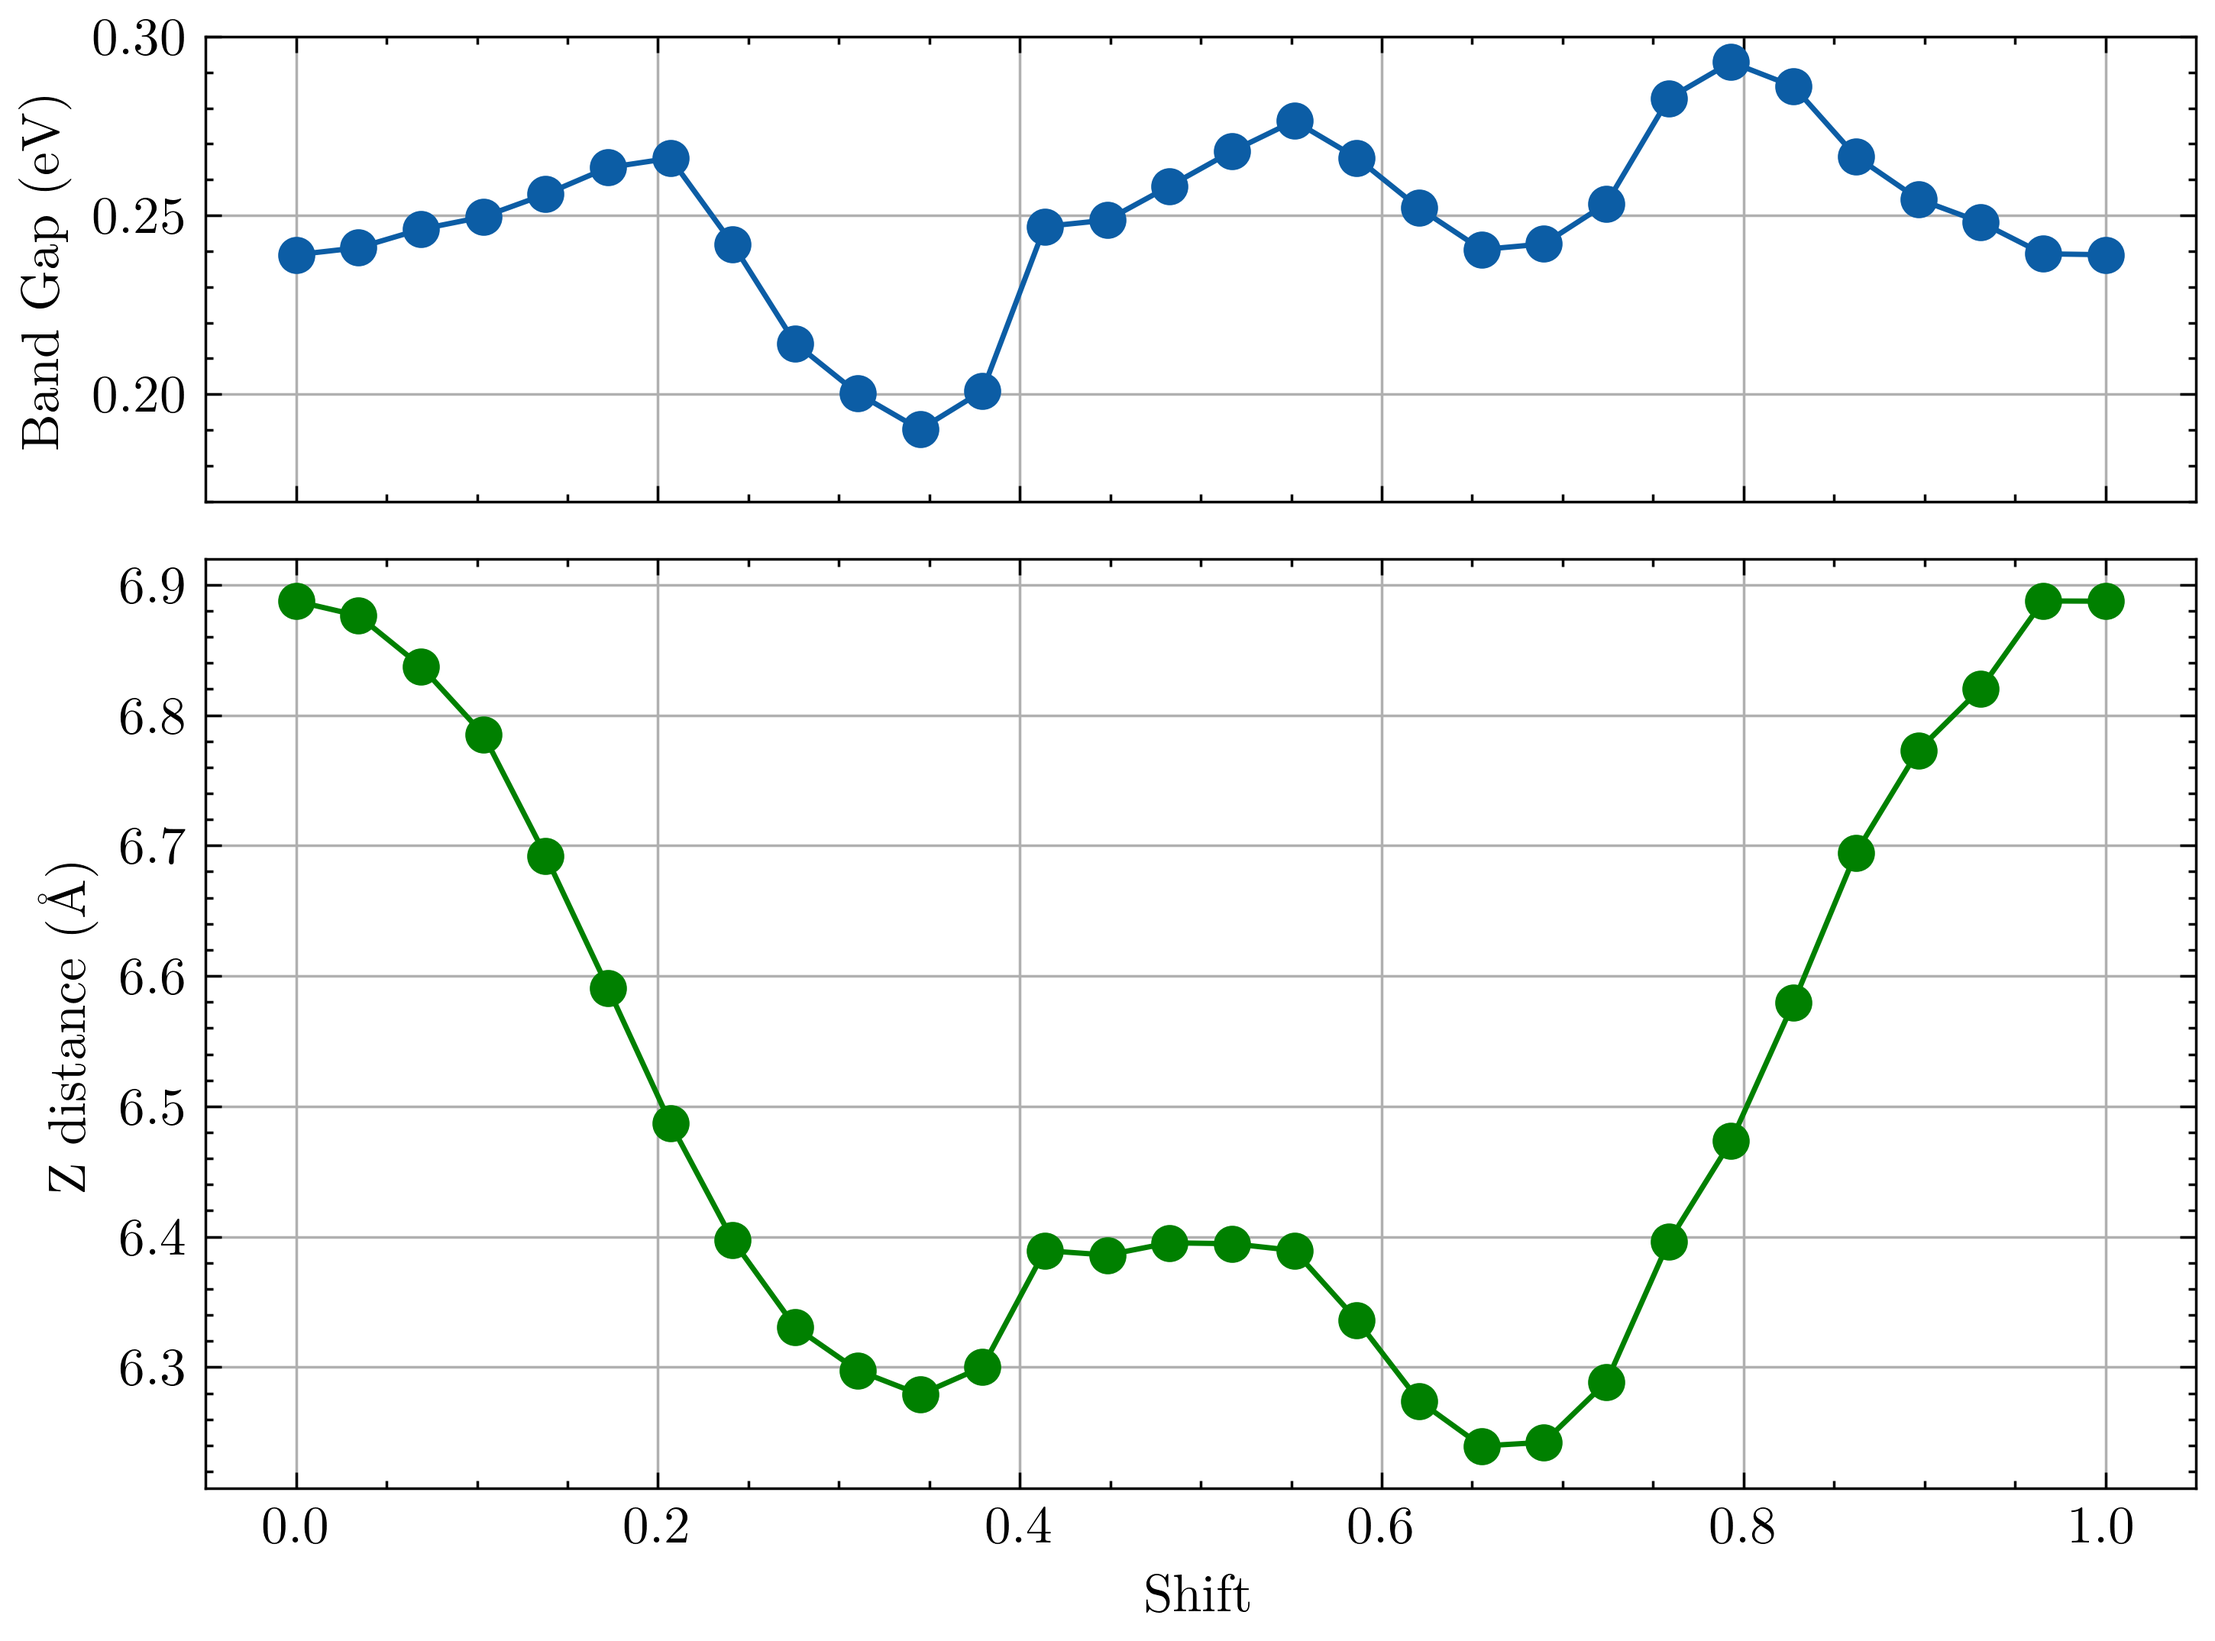
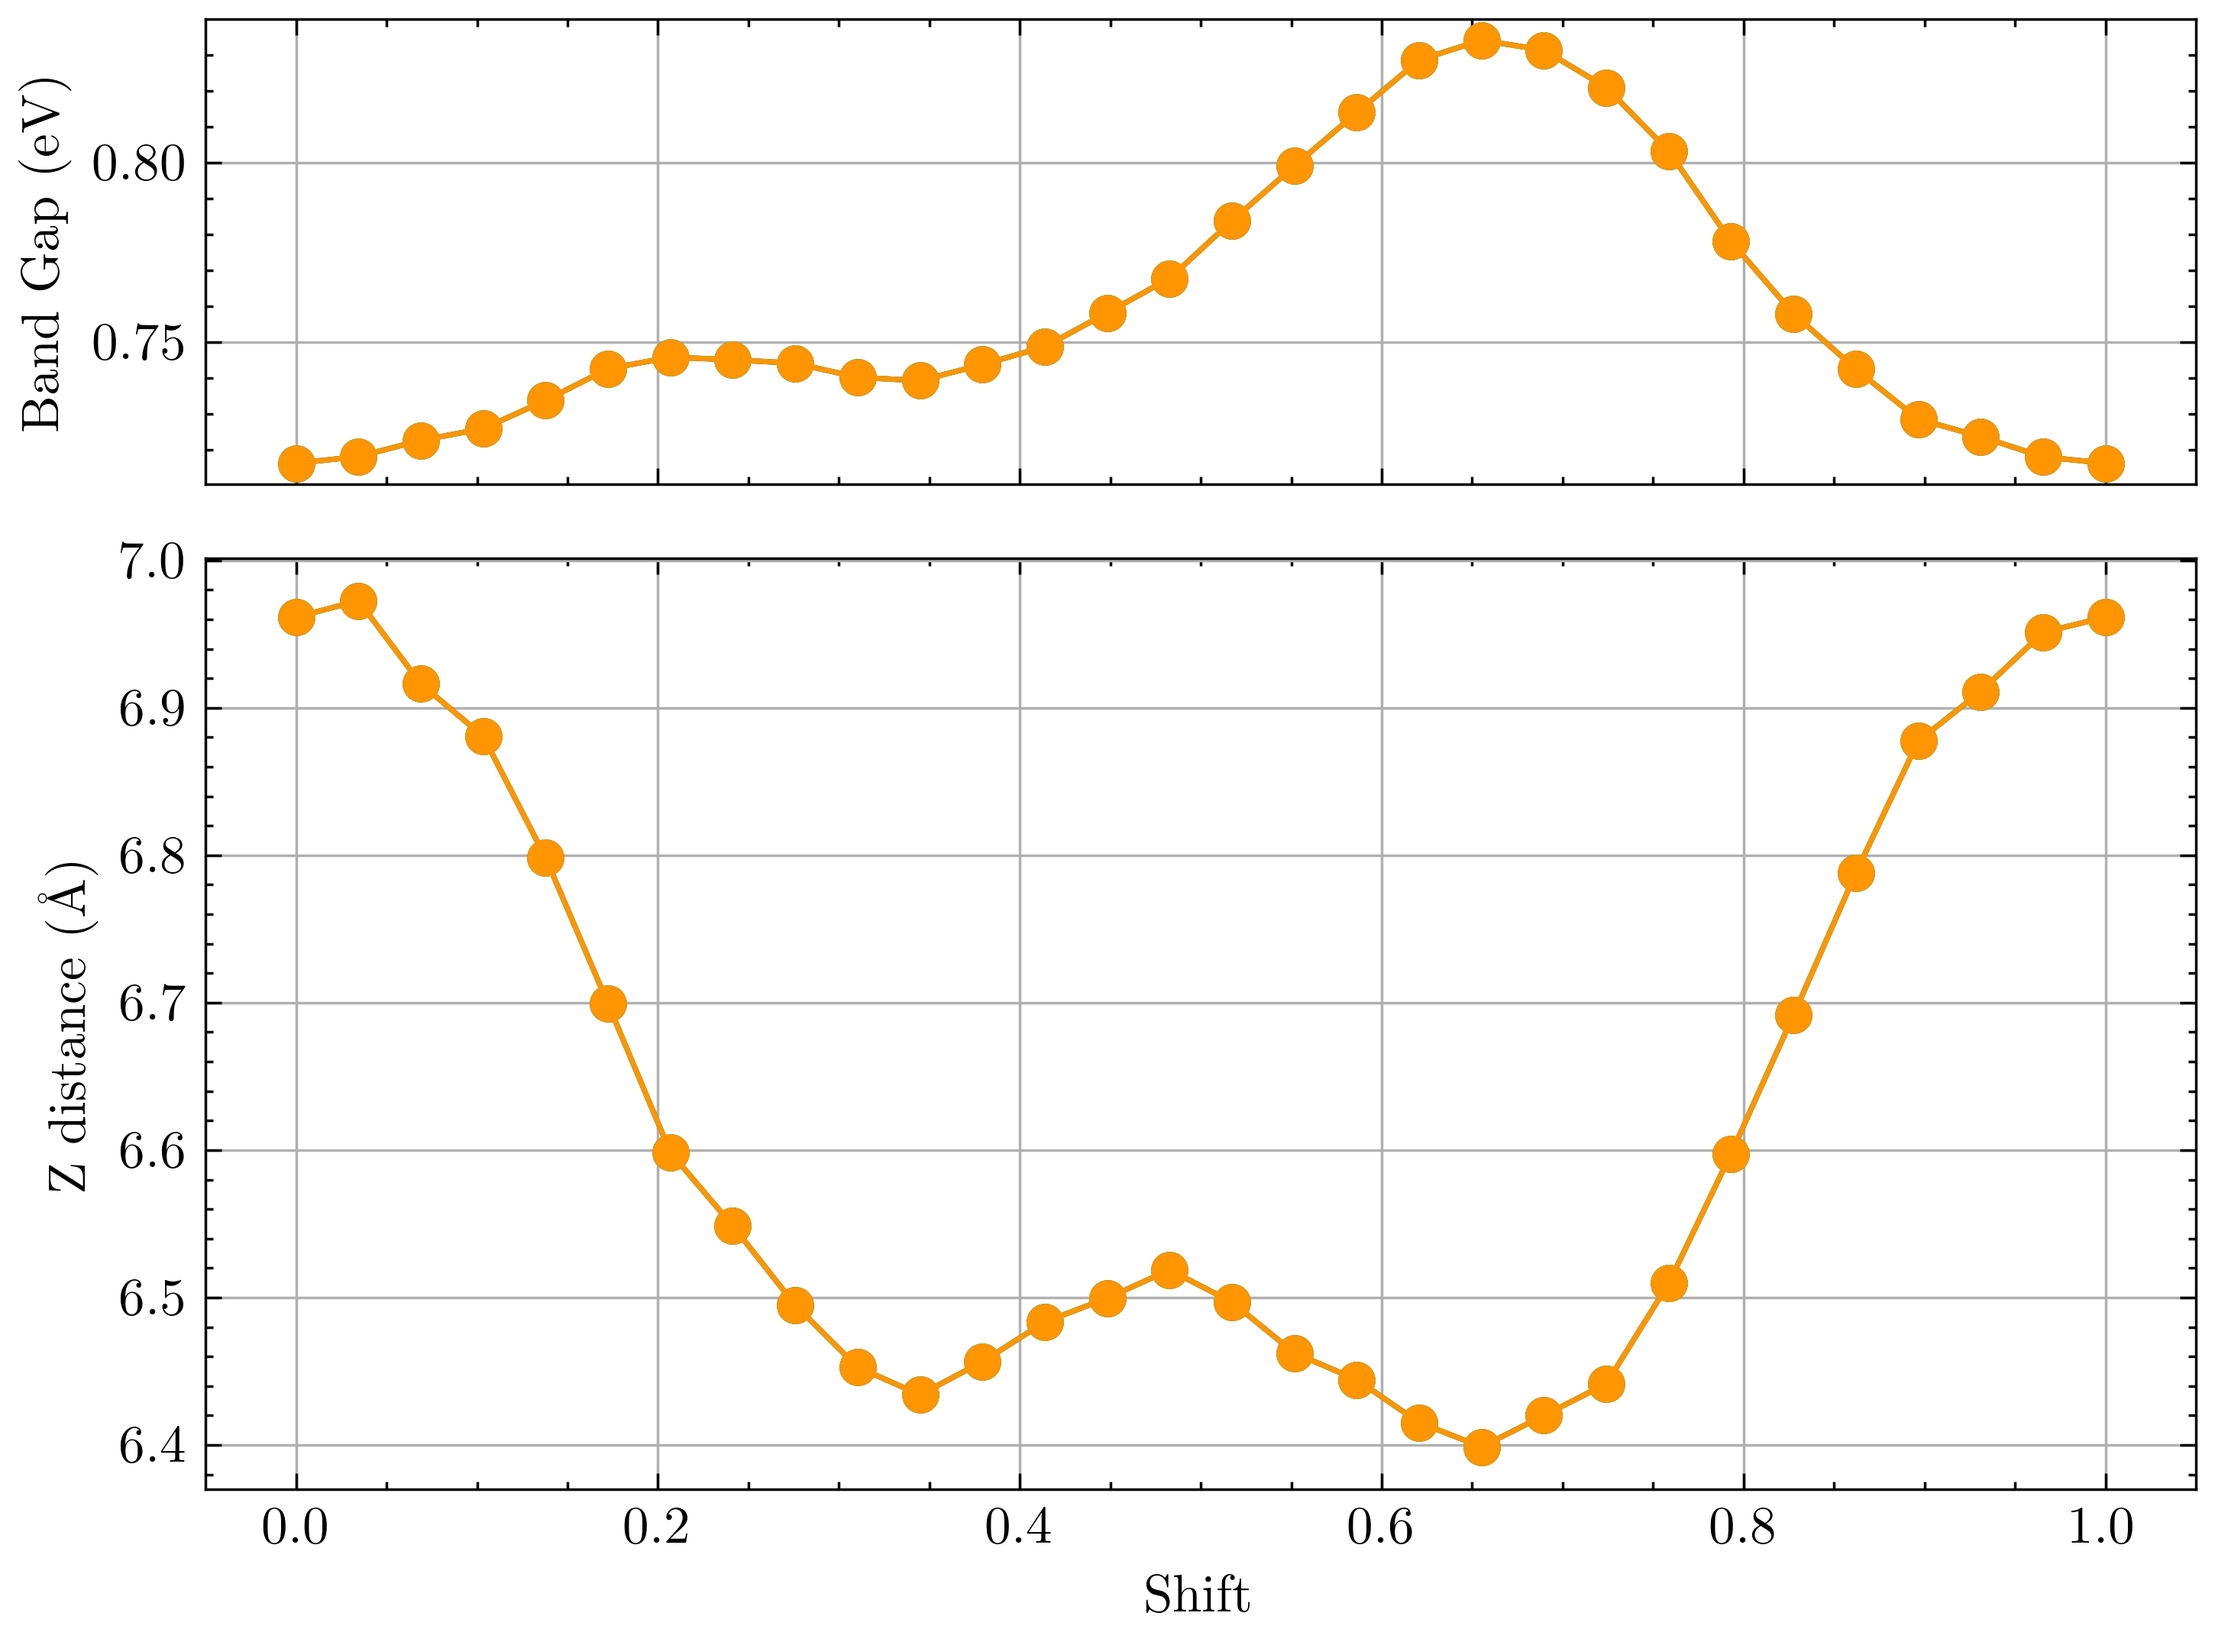
Misc. changes

diff --git a/scripts/constrained_opt/plotting_2D.py b/scripts/constrained_opt/plotting_2D.py
@@ -1,66 +1,77 @@
 import matplotlib.pyplot as plt
 import numpy as np
 from ase.io import read
-from ase.build import mx2
-from functions.heat_map import interlayer_distance
 
 data = np.loadtxt('tree/write_csv_task/results.csv',
                   delimiter=',', skiprows=1)
 
 atoms = read('../../structures/1.05_3027/structure_ml.json')
 
-MoS2_len = 3.184
-WSe2_len = 3.319
-average_len = (MoS2_len + WSe2_len)/2
+cell = atoms.get_cell()[:2, :2]
 
-MoS2 = mx2('MoS2', a=average_len, vacuum=6.0)
+# 0: x,
+# 1: y,
+# 2: center x,
+# 3: center y,
+# 4: gap pre relax,
+# 5: gap post no strain,
+# 6: dist no strain,
+# 7: gap post with strain,
+# 8: dist with strain,
+# 9: dist with ml
 
-cell = MoS2.get_cell()[:2, :2]
-x_and_y = data[:, :2]
 
+x = data[:, 2]
+y = data[:, 3]
+pre_gap = data[:, 4]
+gap_no_strain = data[:, 5]
+gap_with_strain = data[:, 7]
+
+dist_ml = data[:, 9]
+dist_cell_opt = data[:, 8]
+dist_no_cell_opt = data[:, 6]
+
+x_and_y = np.stack((x, y), axis=-1)
 transform_coords = x_and_y @ cell.T
 
-x = data[:, 0]
-y = data[:, 1]
-distance = abs(data[:, 2])
-pre_gap = data[:, 3]
-post_gap = data[:, 4]
 
-fig, ax = plt.subplots()
-contour = ax.scatter(transform_coords[:, 1],
-                     transform_coords[:, 0],
-                     c=post_gap,
-                     cmap="cool")
-fig.colorbar(contour, ax=ax, label="Gap [eV]")
-ax.set_xlabel("X Position [Å]")
-ax.set_ylabel("Y Position [Å]")
-ax.axis('equal')
-ax.set_title("Local gap post relaxations")
-fig.savefig("plots/gap.png", dpi=500)
-plt.close(fig)
+def scatter_plot(data, title, label, filename):
+    fig, ax = plt.subplots()
+    # scatter = ax.scatter(transform_coords[:, 1],
+    #                     transform_coords[:, 0],
+    scatter = ax.scatter(x_and_y[:, 0],
+                         x_and_y[:, 1],
+                         c=data,
+                         cmap='cool')
+    fig.colorbar(scatter, ax=ax, label=label)
+    ax.set_xlabel("X Position [Å]")
+    ax.set_ylabel("Y Position [Å]")
+    ax.axis('equal')
+    ax.set_title(title)
+    fig.savefig(f"plots/{filename}.png", dpi=500)
+    plt.close(fig)
 
-fig, ax = plt.subplots()
-contour = ax.scatter(transform_coords[:, 1],
-                     transform_coords[:, 0],
-                     c=distance,
-                     cmap="cool")
-fig.colorbar(contour, ax=ax, label="Z-distance [Å]")
-ax.set_xlabel("X Position [Å]")
-ax.set_ylabel("Y Position [Å]")
-ax.axis('equal')
-ax.set_title("Distance between TMs")
-fig.savefig("plots/distance.png", dpi=500)
-plt.close(fig)
 
-atoms = read('../../structures/1.05_3027/structure_ml.json')
+scatter_plot(pre_gap - min(pre_gap),
+             "Local gap pre relaxations",
+             "Gap [eV]", "gap_pre")
+scatter_plot(gap_no_strain - min(gap_no_strain),
+             "Local gap no cell optimization",
+             "Gap [eV]", "gap_no_strain")
+scatter_plot(gap_with_strain - min(gap_with_strain),
+             "Local gap with cell optimization",
+             "Gap [eV]", "gap_with_strain")
+scatter_plot((gap_no_strain - min(gap_no_strain))
+             - (gap_with_strain - min(gap_with_strain)),
+             "Difference in local gap: no cell opt - cell opt",
+             "Gap [eV]", "gap_difference_no_cell_opt")
 
-x_i, y_i, z_i = interlayer_distance(atoms)
-fig4, ax4 = plt.subplots()
-sc4 = ax4.scatter(x_i, y_i, c=z_i, cmap='cool')
-fig4.colorbar(sc4, label='Interlayer Distance (Å)', ax=ax4)
-ax4.set_xlabel('X Coordinate')
-ax4.set_ylabel('Y Coordinate')
-ax4.set_title('Interlayer Distance from ML relaxed structure')
-fig4.tight_layout()
-fig4.savefig('plots/interlayer_distance.png', dpi=500)
-plt.close(fig4)
+scatter_plot(dist_no_cell_opt - dist_cell_opt,
+             "Difference in Z-distance",
+             "Z-distance [Å]", "z_distance_difference")
+scatter_plot(dist_ml - dist_cell_opt,
+             "Z-distance: ML minus cell optimized relaxation",
+             "Z-distance [Å]", "z_distance_ml")
+scatter_plot(dist_ml - dist_no_cell_opt,
+             "Z-distance: ML minus not cell optimized relaxation",
+             "Z-distance [Å]", "z_distance_ml_no_cell_opt")

diff --git a/scripts/constrained_opt/strain-distance/strain-distance.py b/scripts/constrained_opt/strain-distance/strain-distance.py
@@ -1,0 +1,47 @@
+import numpy as np
+import csv
+from gpaw import GPAW, PW
+from ase.optimize import BFGS
+from ase.calculators.dftd3 import DFTD3
+
+from functions.structure import create_bilayer
+
+# Parameters
+shifts = np.linspace(0, 1, 6, endpoint=False)
+a_values = np.linspace(3.184 * 0.995, 3.319 * 1.005, 30)
+
+# Data containers
+z_matrix = []  # each row: [a, z1, z2, z3, z4, z5, z6]
+
+
+for shift in shifts:
+    row = [shift]  # start with the shift value
+    for a in a_values:
+        struct = create_bilayer(z_dist=6.6, lattice_length=a,
+                                a_shift=shift, b_shift=shift,
+                                constrain=True, acute_corner=True)
+
+        calc = GPAW(mode=PW(500),
+                    xc='PBE',
+                    kpts={'size': (12, 12, 1)},
+                    txt='gpaw.txt')
+        d3_calc = DFTD3(dft=calc)
+        struct.calc = d3_calc
+        struct.get_potential_energy()
+
+        opt = BFGS(struct,
+                   trajectory=f'traj_files/opt_{a:.2f}_{shift:.2f}.traj')
+        opt.run(fmax=0.01)
+        symbols = np.array(struct.get_chemical_symbols())
+        z_dist = (struct[symbols == 'W'].positions[0][2]
+                  - struct[symbols == 'Mo'].positions[0][2])
+
+        row.append(z_dist)
+
+    z_matrix.append(row)
+
+with open('relaxed_z_matrix.csv', 'w', newline='') as f:
+    writer = csv.writer(f)
+    header = ['a'] + [f'shift={s:.2f}' for s in shifts]
+    writer.writerow(header)
+    writer.writerows(z_matrix)

diff --git a/scripts/constrained_opt/tasks.py b/scripts/constrained_opt/tasks.py
@@ -141,15 +141,15 @@ def return_as_dict(i: int, j: int, pre_relax: float,
 def write_results_to_csv(results_dict: dict, csv_name: str) -> Path:
     rows = []
     for name, d in results_dict.items():
-        x = d['x']
-        y = d['y']
+        x = d['x_shift']
+        y = d['y_shift']
         cx = d['center'][0]
         cy = d['center'][1]
         pre_relax = d['pre']
-        post_relax_no_strain = d['gap post no strain']
+        post_relax_no_strain = d['post no strain']
         dist_no_strain = d['distance no strain']
-        post_relax_with_strain = d['gap post with strain']
-        dist_with_strain = d['distance no strain']
+        post_relax_with_strain = d['post with strain']
+        dist_with_strain = d['distance with strain']
         z_dist_ml = d['z distance ml']
 
         rows.append({
@@ -157,7 +157,7 @@ def write_results_to_csv(results_dict: dict, csv_name: str) -> Path:
             "y": y,
             "center x": cx,
             "center y": cy,
-            "gap pre": pre_relax,
+            "gap pre relax": pre_relax,
             "gap post no strain": post_relax_no_strain,
             "dist no strain": dist_no_strain,
             "gap post with strain": post_relax_with_strain,

diff --git a/scripts/constrained_opt/diagonal/plotting.py b/scripts/constrained_opt/diagonal/plotting.py
@@ -1,0 +1,32 @@
+import matplotlib.pyplot as plt
+import numpy as np
+
+import scienceplots  # noqa: F401
+
+plt.style.use('science')
+fig, ax = plt.subplots(2, 1, figsize=(6, 4.5), sharex=True,
+                       gridspec_kw={'height_ratios': [1, 2]})
+
+for a, color, label in zip([3.184, 3.2515, 3.319],
+                           ['C0', 'C1', 'C2'],
+                           ['a=MoS2', 'a=Average', 'a=WSe2']):
+    data = np.loadtxt(f'gap_shift_{a:.2f}.csv', delimiter=',', skiprows=1)
+
+    shift_arr = data[:, 0]
+    z_dist_arr = data[:, 1]
+    gap_arr = data[:, 2]
+
+    ax[0].plot(shift_arr, gap_arr - min(gap_arr), '-o',
+               label=label, color=color)
+    ax[1].plot(shift_arr, z_dist_arr, '-o',
+               label=label, color=color)
+
+
+ax[0].set_ylabel('Band Gap (eV) \n (Relative to min)')
+ax[0].grid()
+ax[1].set_xlabel('Shift')
+ax[1].set_ylabel('Z distance (Å)')
+ax[1].legend()
+ax[1].grid()
+plt.tight_layout()
+plt.savefig('gap_shift_plot.png', dpi=500)

diff --git a/scripts/constrained_opt/diagonal/readme.md b/scripts/constrained_opt/diagonal/readme.md
@@ -1,0 +1,2 @@
+31-07-25
+These calculations have been with the transition metals constrained to only move up and down.
